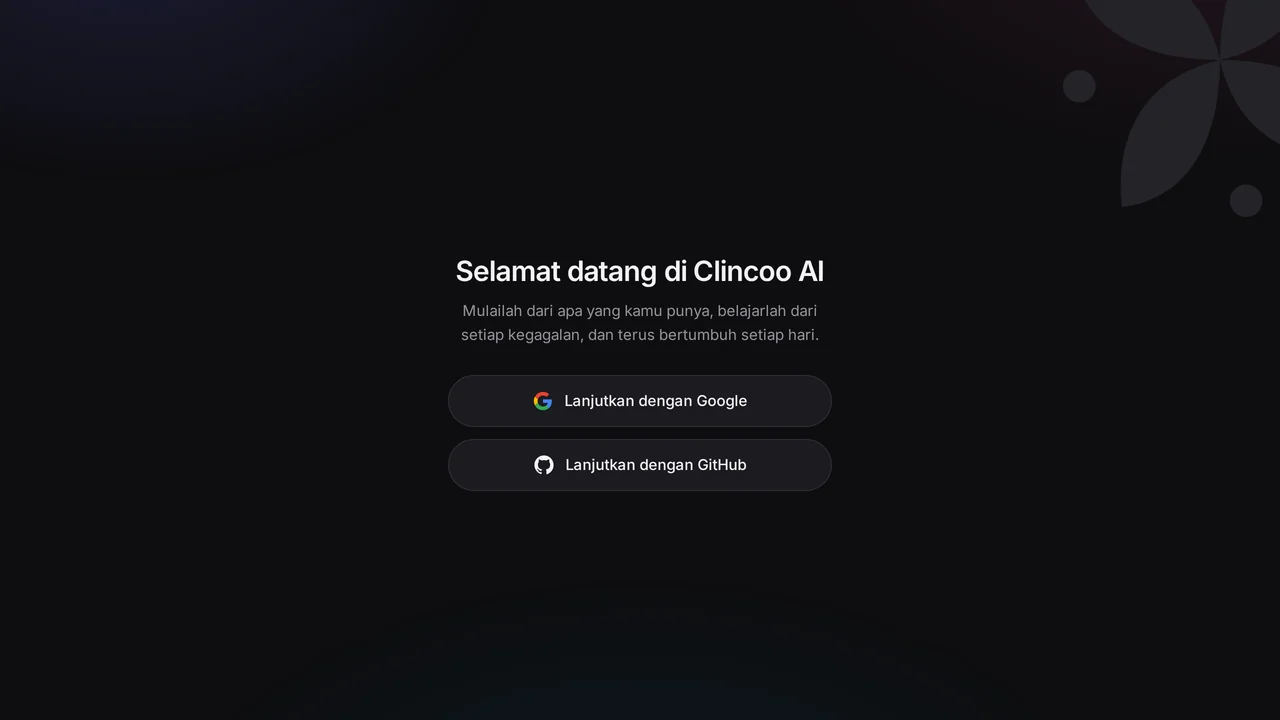
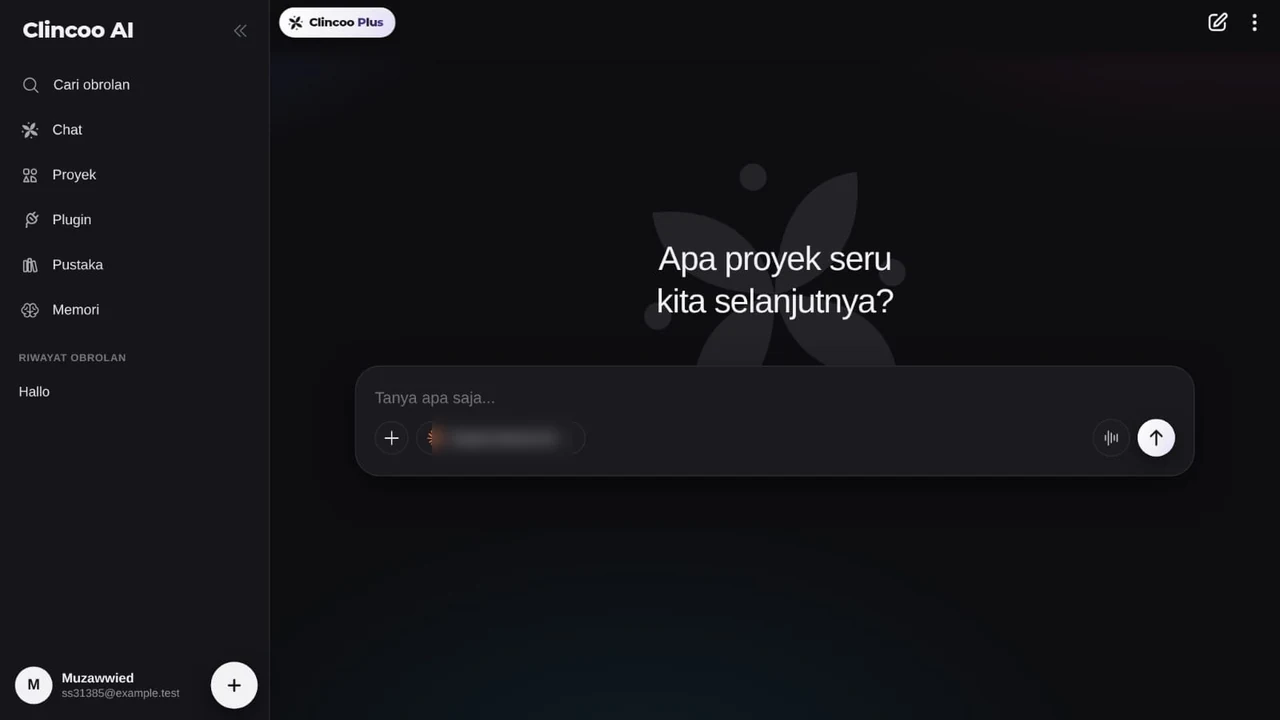
fix(proyek): cover kartu Clincoo AI ganti dari halaman login ke screenshot dalam aplikasi (chat UI mode gelap) sesuai kiriman owner; nama model di chip composer diblur supaya identitas model tidak ikut tampil publik.

diff --git a/index.html b/index.html
@@ -533,7 +533,7 @@ body.sheet-lock { overflow: hidden; }
     </div>
     <div class="pill-row">
     <a class="pill" href="https://clincoo.web.id" target="_blank" rel="noopener">
-      <span class="cover"><img src="/img/clincoo-ai.webp?v=1" alt="" width="1280" height="720" loading="lazy" onerror="this.remove()"></span>
+      <span class="cover"><img src="/img/clincoo-ai.webp?v=2" alt="" width="1280" height="720" loading="lazy" onerror="this.remove()"></span>
       <svg class="logo" viewBox="72 72 880 880" aria-hidden="true"><circle cx="512" cy="512" r="440" fill="#ffffff"/><path fill="#000000" d="M679.5 261.5C553.3 276.5 512.6 395.1 512 512C641.9 481.7 691.9 382.8 679.5 261.5Z"/><path fill="#000000" d="M679.5 261.5C553.3 276.5 512.6 395.1 512 512C641.9 481.7 691.9 382.8 679.5 261.5Z" transform="rotate(90 512 512)"/><path fill="#000000" d="M679.5 261.5C553.3 276.5 512.6 395.1 512 512C641.9 481.7 691.9 382.8 679.5 261.5Z" transform="rotate(180 512 512)"/><path fill="#000000" d="M679.5 261.5C553.3 276.5 512.6 395.1 512 512C641.9 481.7 691.9 382.8 679.5 261.5Z" transform="rotate(270 512 512)"/><circle fill="#000000" cx="469.2" cy="292.8" r="32.2"/><circle fill="#000000" cx="469.2" cy="292.8" r="32.2" transform="rotate(90 512 512)"/><circle fill="#000000" cx="469.2" cy="292.8" r="32.2" transform="rotate(180 512 512)"/><circle fill="#000000" cx="469.2" cy="292.8" r="32.2" transform="rotate(270 512 512)"/></svg>
       <span class="pill-t">Clincoo AI</span>
     </a>
